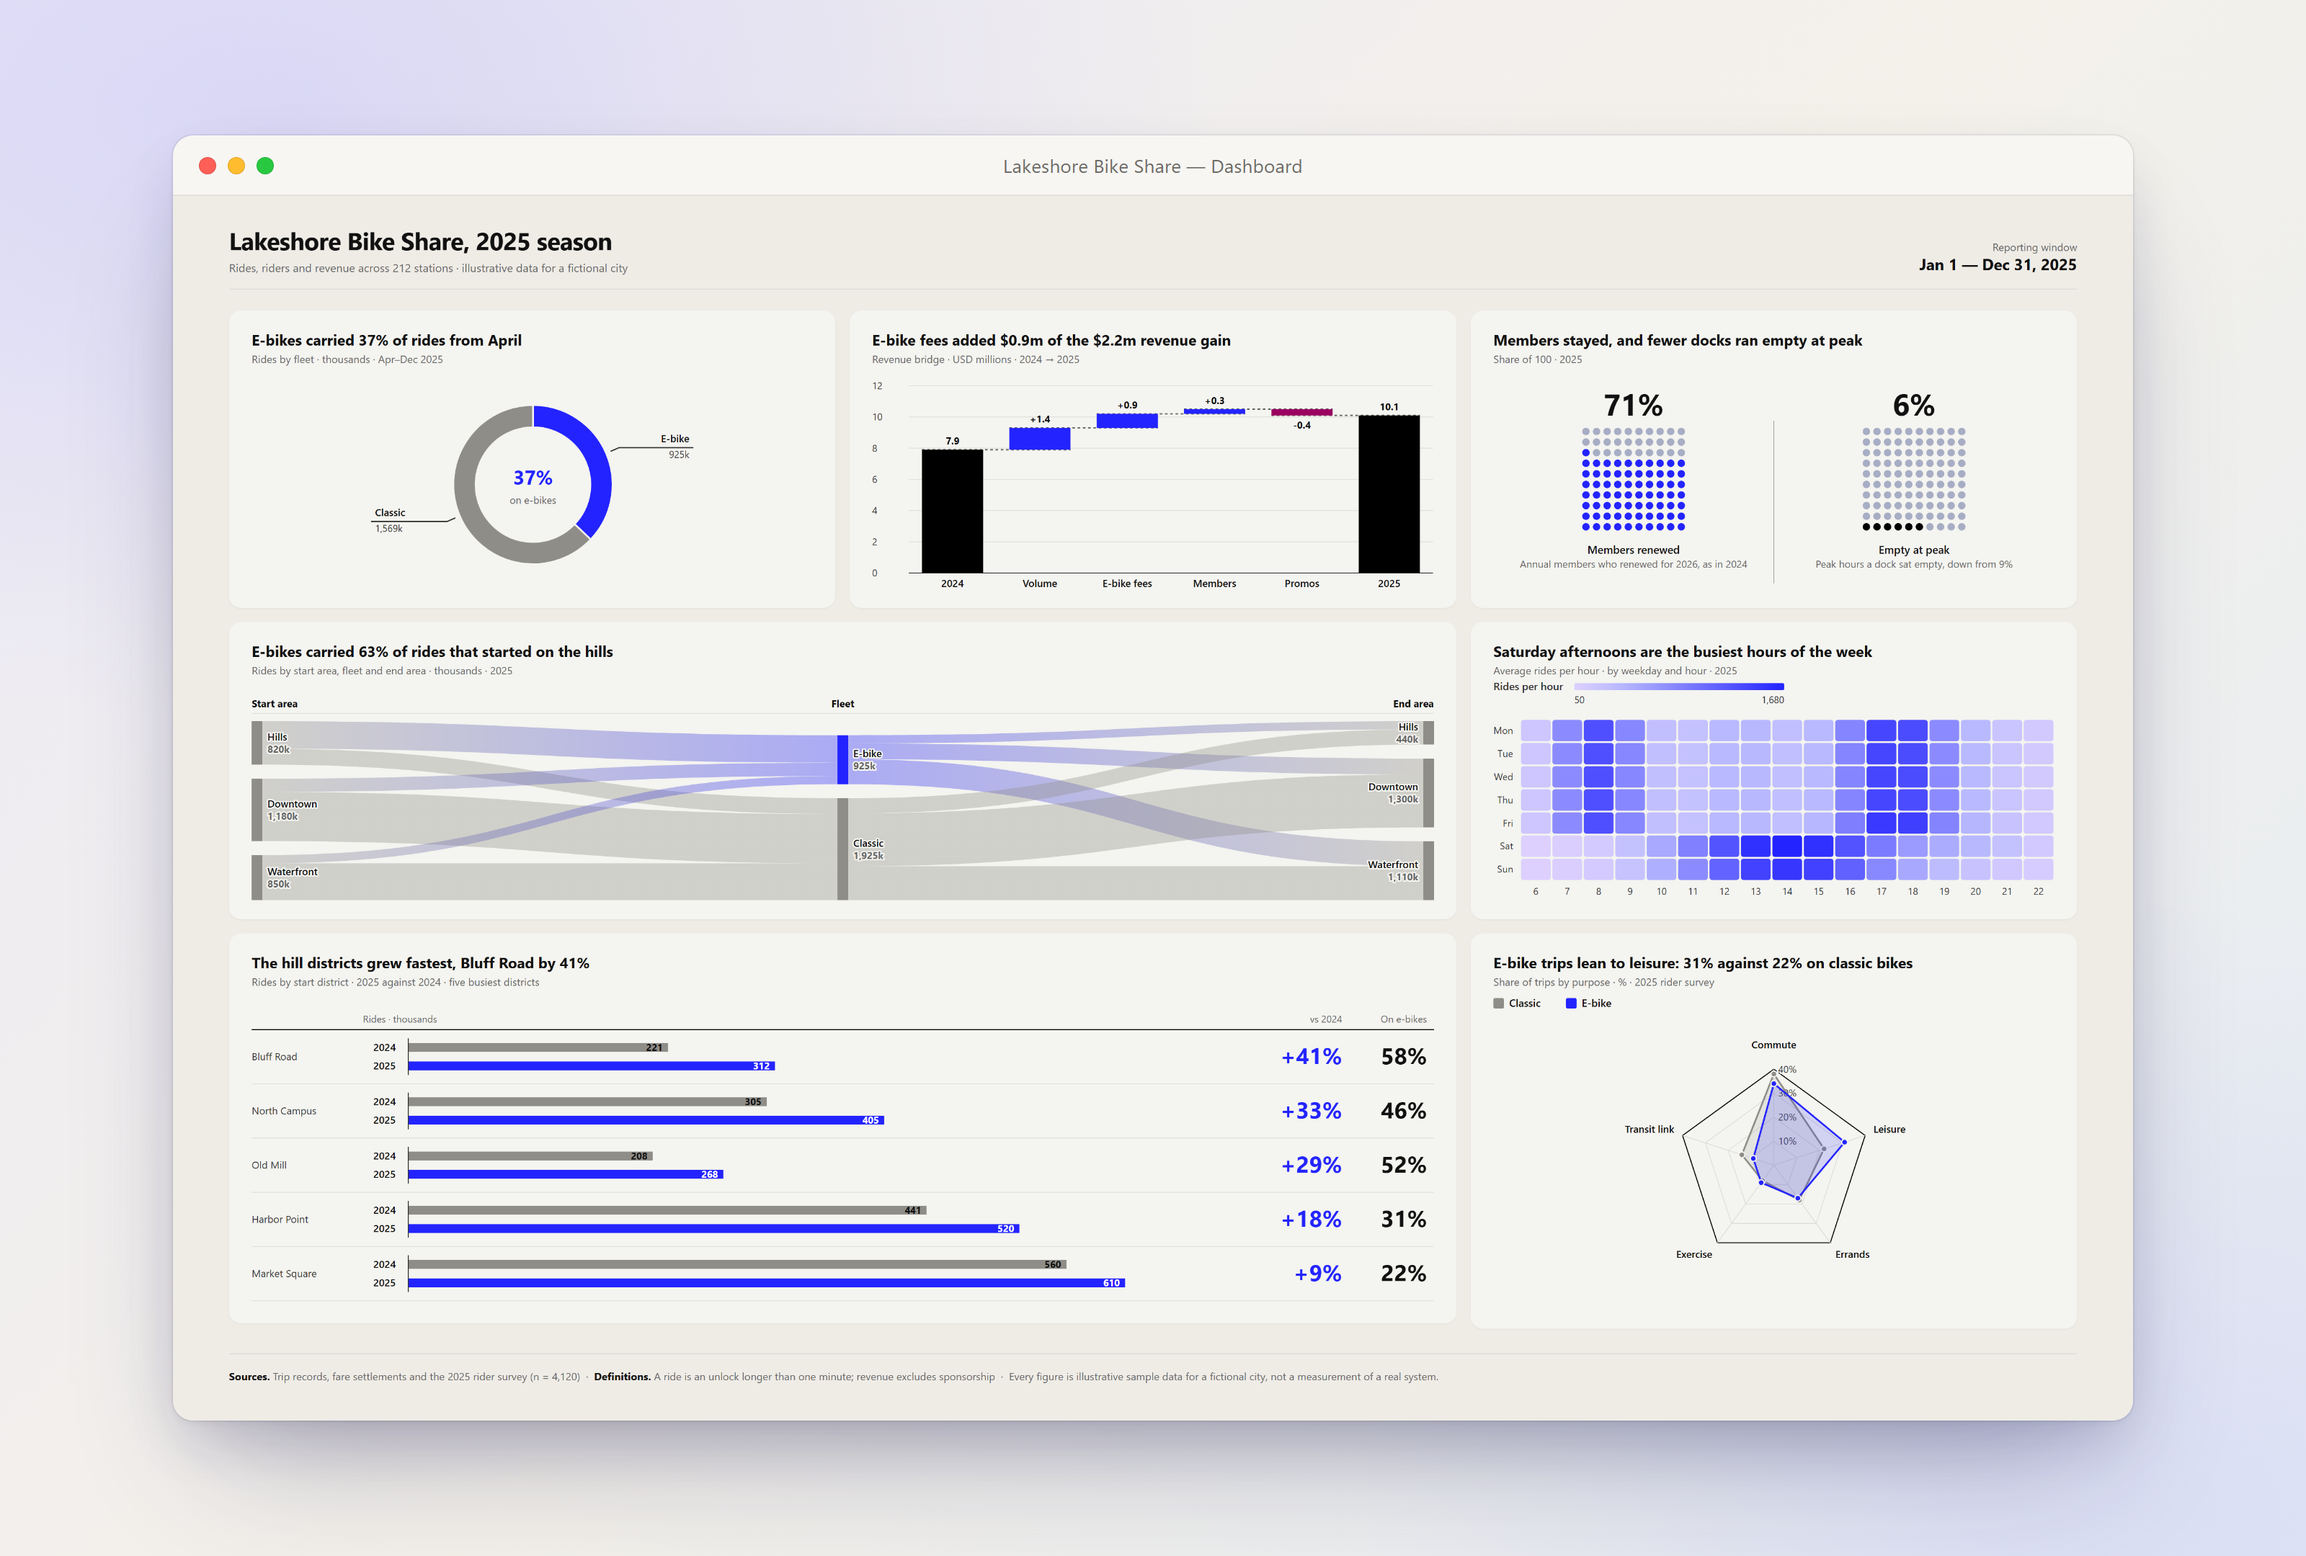
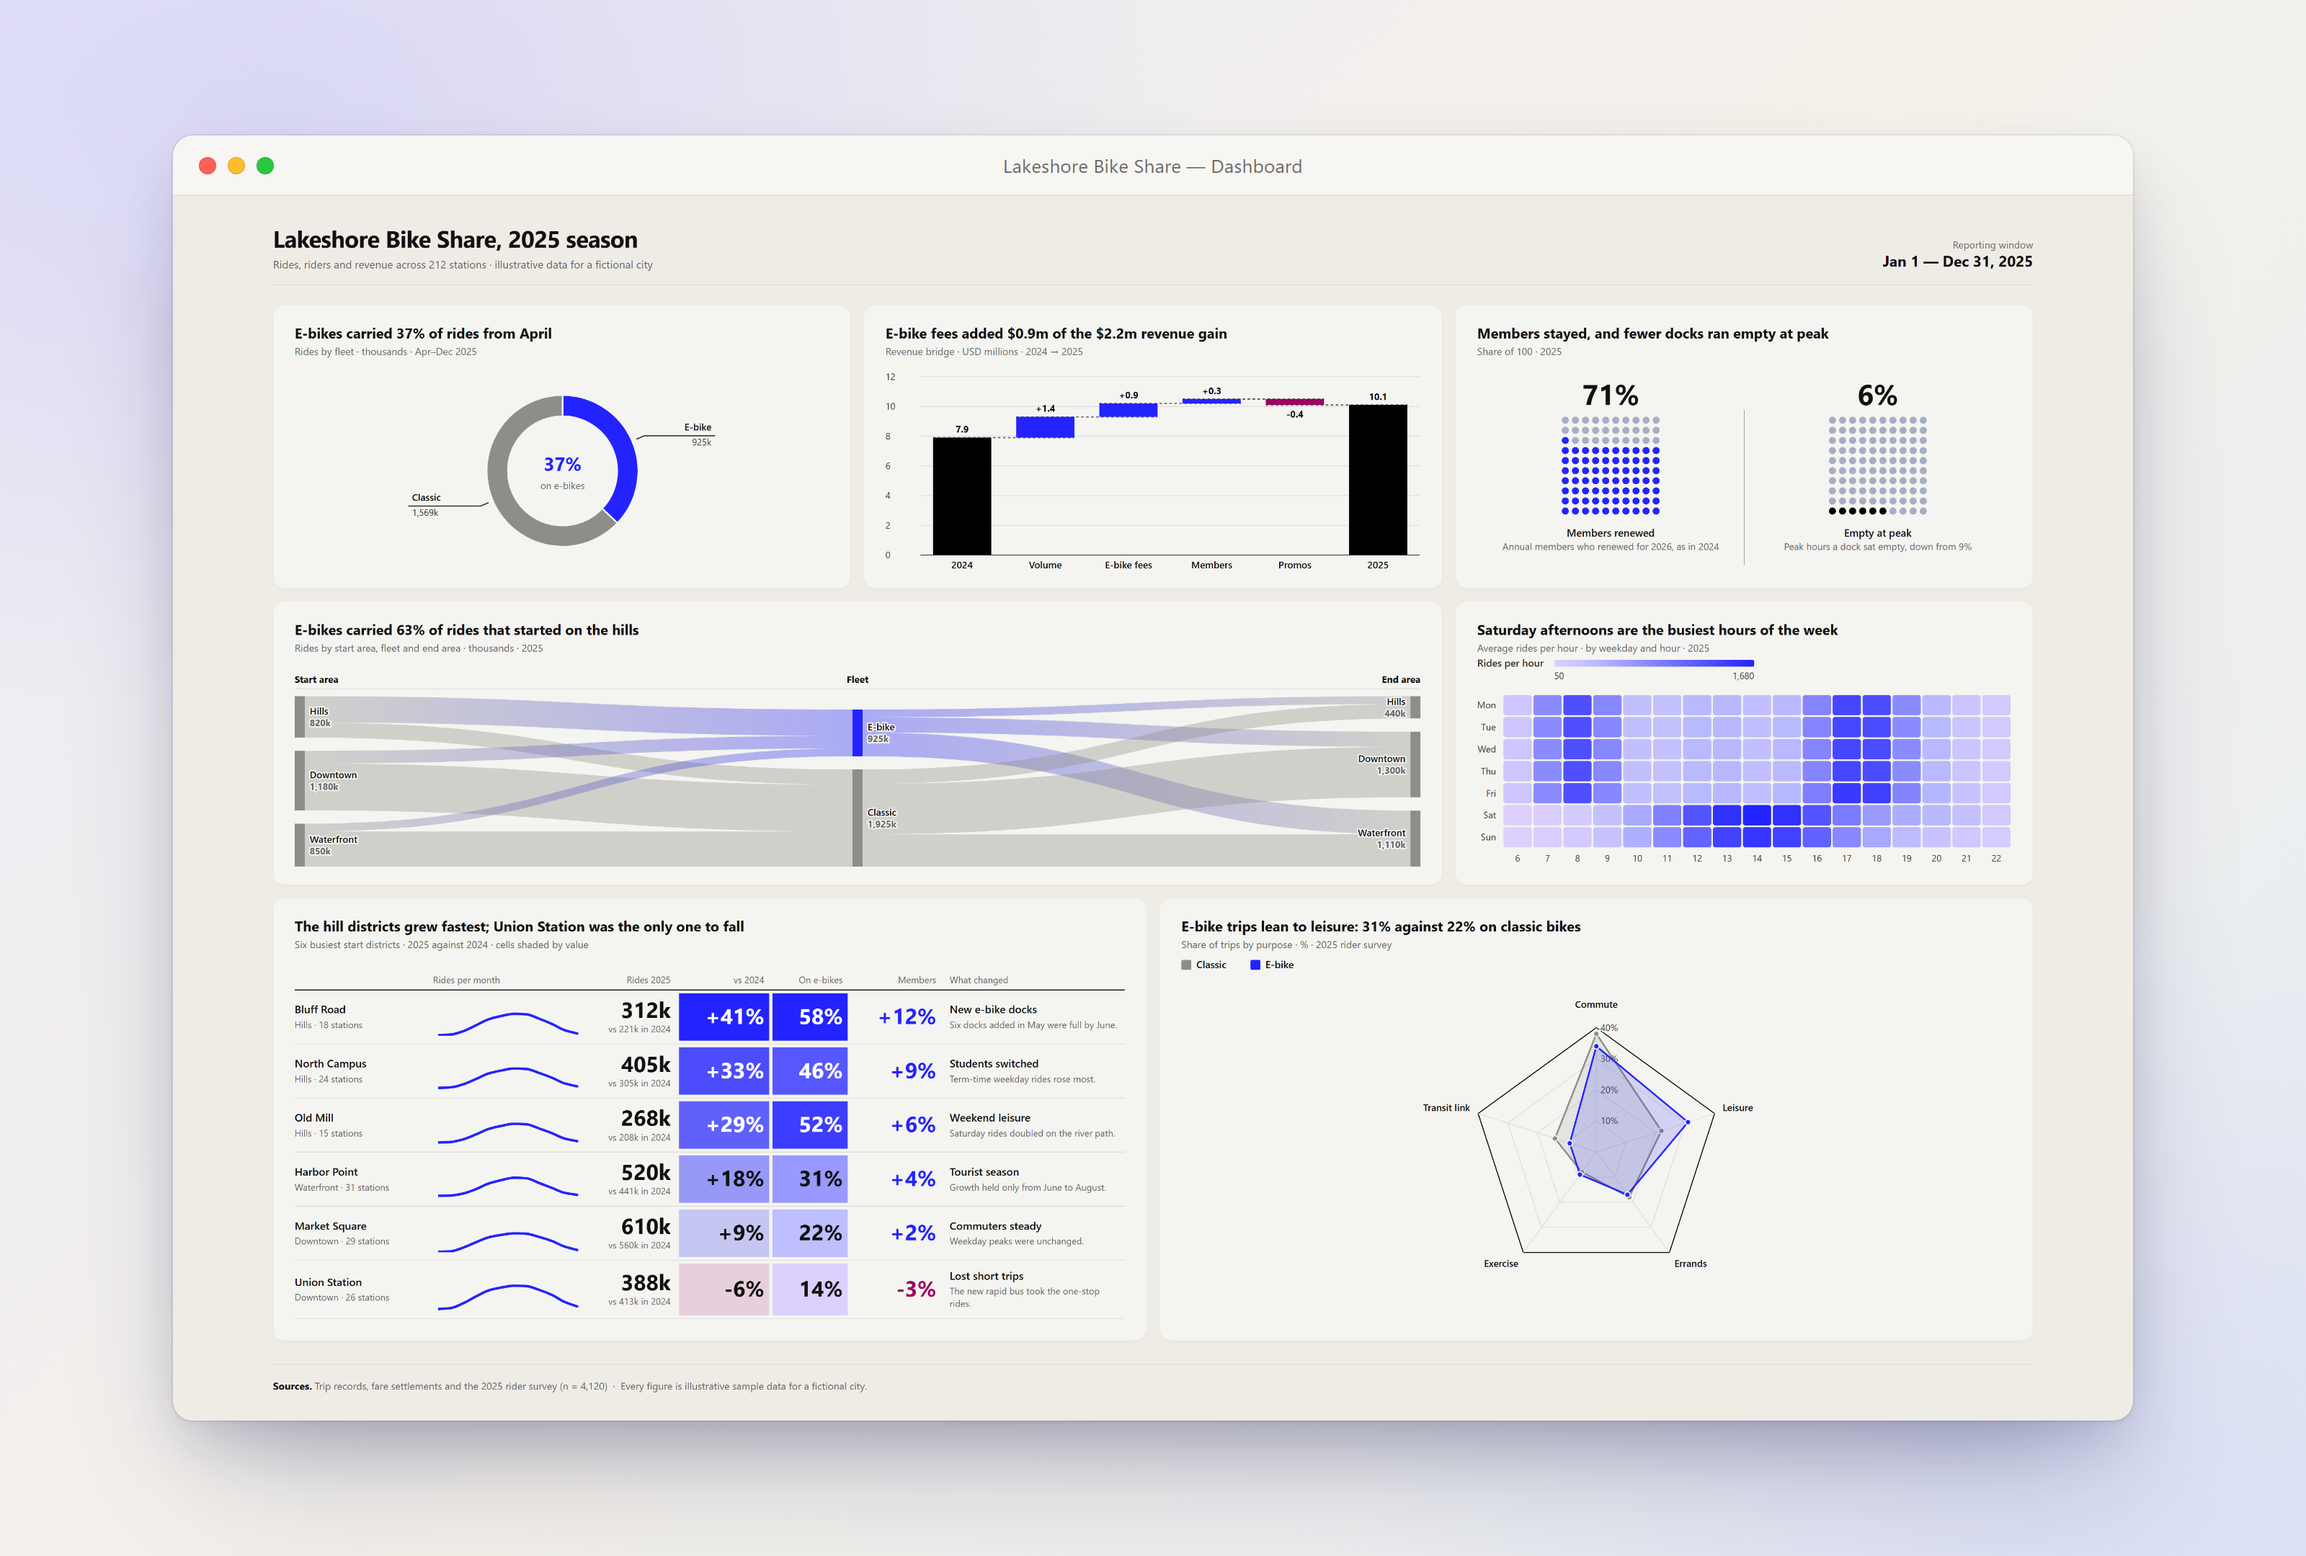
docs(readme): give the dashboard's report table even, featured columns
The district table was mostly one wide 2024/2025 bar column. It now
carries six evenly weighted columns: a short sparkline, rides with last
year as a note, growth and e-bike share cells shaded on diverging and
sequential scales, a members change coloured by sign, and an insight per
row, with Union Station's decline showing the negative side. The table
and the radar now split the bottom row w6/w6, and the hero's deck is
re-placed on the new gutter.

diff --git a/docs/readme/pages/dashboard.html b/docs/readme/pages/dashboard.html
@@ -107,14 +107,13 @@
     <div class="cell w4"><div class="chart" id="c-hours"></div></div>
   </div>
   <div class="bento flow">
-    <div class="cell w8"><div class="chart" id="c-districts"></div></div>
-    <div class="cell w4"><div class="chart" id="c-purpose" style="height:440px"></div></div>
+    <div class="cell w6"><div class="chart" id="c-districts"></div></div>
+    <div class="cell w6"><div class="chart" id="c-purpose" style="height:519px"></div></div>
   </div>
 
   <footer class="notes">
     <b>Sources.</b> Trip records, fare settlements and the 2025 rider survey (n = 4,120) &nbsp;·&nbsp;
-    <b>Definitions.</b> A ride is an unlock longer than one minute; revenue excludes sponsorship &nbsp;·&nbsp;
-    Every figure is illustrative sample data for a fictional city, not a measurement of a real system.
+    Every figure is illustrative sample data for a fictional city.
   </footer>
 </div>
 
@@ -219,18 +218,20 @@ Charts.waffle('c-service', {
 });
 
 Charts.reportTable('c-districts', {
-  title: 'The hill districts grew fastest, Bluff Road by 41%',
-  subtitle: 'Rides by start district · 2025 against 2024 · five busiest districts',
-  plotOptions: { reportTable: { rowHeight: 62 } },
+  title: 'The hill districts grew fastest; Union Station was the only one to fall',
+  subtitle: 'Six busiest start districts · 2025 against 2024 · cells shaded by value',
+  plotOptions: { reportTable: { rowHeight: 56 } },
   columns: [
-    { key: 'trend',  kind: 'chart', name: 'Rides · thousands',
-      chart: { type: 'bar', xAxis: { categories: ['2024', '2025'] },
-        plotOptions: { series: { dataLabels: { enabled: true } } } } },
-    { key: 'change', kind: 'kpi', name: 'vs 2024', suffix: '%', colorBySign: true },
-    { key: 'share',  kind: 'kpi', name: 'On e-bikes', suffix: '%' }
+    { key: 'trend',  kind: 'chart', name: 'Rides per month', width: 200, sharedScale: false,
+      chart: { type: 'line', xAxis: { categories: ['Jan','Feb','Mar','Apr','May','Jun','Jul','Aug','Sep','Oct','Nov','Dec'] },
+        plotOptions: { series: { dataLabels: { enabled: false } } } } },
+    { key: 'rides',  kind: 'kpi', name: 'Rides 2025', suffix: 'k' },
+    { key: 'change', kind: 'kpi', name: 'vs 2024', suffix: '%', showSign: true, colorByScale: true, scale: 'change' },
+    { key: 'share',  kind: 'kpi', name: 'On e-bikes', suffix: '%', colorByScale: true, scale: 'share' },
+    { key: 'members', kind: 'kpi', name: 'Members', suffix: '%', colorBySign: true },
+    { key: 'why',    kind: 'insight', name: 'What changed' }
   ],
-  rows: [{"name": "Bluff Road", "trend": [221, 312], "rides": 312, "change": {"value": 41}, "share": 58}, {"name": "North Campus", "trend": [305, 405], "rides": 405, "change": {"value": 33}, "share": 46}, {"name": "Old Mill", "trend": [208, 268], "rides": 268, "change": {"value": 29}, "share": 52}, {"name": "Harbor Point", "trend": [441, 520], "rides": 520, "change": {"value": 18}, "share": 31}, {"name": "Market Square", "trend": [560, 610], "rides": 610, "change": {"value": 9}, "share": 22}].map(r => Object.assign({}, r, { trend: { series: [{ name: 'Rides', data: [
-    { y: r.trend[0], color: T.muted }, { y: r.trend[1], color: T.colors[1] } ] }] } }))
+  rows: [{"name": {"head": "Bluff Road", "body": "Hills · 18 stations"}, "trend": [10.8, 11.6, 16.5, 25.0, 33.8, 38.5, 41.7, 40.9, 34.6, 27.1, 18.1, 13.2], "rides": {"value": 312, "note": "vs 221k in 2024"}, "change": 41, "share": 58, "members": 12, "why": {"head": "New e-bike docks", "body": "Six docks added in May were full by June."}}, {"name": {"head": "North Campus", "body": "Hills · 24 stations"}, "trend": [14.1, 15.1, 21.5, 32.4, 43.9, 50.0, 54.1, 53.1, 44.9, 35.2, 23.4, 17.2], "rides": {"value": 405, "note": "vs 305k in 2024"}, "change": 33, "share": 46, "members": 9, "why": {"head": "Students switched", "body": "Term-time weekday rides rose most."}}, {"name": {"head": "Old Mill", "body": "Hills · 15 stations"}, "trend": [7.6, 8.3, 12.7, 20.8, 29.9, 35.0, 38.5, 37.6, 30.7, 23.0, 14.1, 9.7], "rides": {"value": 268, "note": "vs 208k in 2024"}, "change": 29, "share": 52, "members": 6, "why": {"head": "Weekend leisure", "body": "Saturday rides doubled on the river path."}}, {"name": {"head": "Harbor Point", "body": "Waterfront · 31 stations"}, "trend": [9.8, 10.9, 19.2, 37.2, 60.5, 74.6, 84.6, 82.1, 62.7, 42.6, 22.2, 13.5], "rides": {"value": 520, "note": "vs 441k in 2024"}, "change": 18, "share": 31, "members": 4, "why": {"head": "Tourist season", "body": "Growth held only from June to August."}}, {"name": {"head": "Market Square", "body": "Downtown · 29 stations"}, "trend": [30.8, 32.1, 39.7, 50.8, 61.0, 66.0, 69.2, 68.4, 61.8, 53.5, 41.9, 34.8], "rides": {"value": 610, "note": "vs 560k in 2024"}, "change": 9, "share": 22, "members": 2, "why": {"head": "Commuters steady", "body": "Weekday peaks were unchanged."}}, {"name": {"head": "Union Station", "body": "Downtown · 26 stations"}, "trend": [21.4, 22.2, 26.5, 32.5, 37.8, 40.4, 42.0, 41.6, 38.3, 33.9, 27.7, 23.7], "rides": {"value": 388, "note": "vs 413k in 2024"}, "change": -6, "share": 14, "members": -3, "why": {"head": "Lost short trips", "body": "The new rapid bus took the one-stop rides."}}].map(r => Object.assign({}, r, { trend: { series: [{ name: 'Rides', data: r.trend, color: T.colors[1] }] } }))
 });
 
 (function () {

diff --git a/docs/readme/hero.html b/docs/readme/hero.html
@@ -32,15 +32,15 @@
     color:#6f6d68; pointer-events:none; }
   .win img { display:block; width:100%; height:auto; }
 
-  /* The dashboard leads and is shown whole (its capture is 2240x1400 css,
-     drawn here at 0.482). The front windows touch it only where no text is:
+  /* The dashboard leads and is shown whole (its capture is 2352x1470 css,
+     drawn here at 0.459). The front windows touch it only where no text is:
      the deck's top-left corner sits in the grid gutters around the radar
-     cell (css x 1467–1483, y 827–843), so it covers that panel whole and the
+     cell (css x 1168–1184, y 827–843), so it covers that panel whole and the
      empty end of the footer; the email overlaps only the dashboard's left
-     padding (css x < 64). Re-measure the cells if the dashboard page changes. */
-  .dash  { left:330px;  top:120px;  width:1080px; z-index:1; }
-  .deck  { left:1041px; top:556px; width:520px;  z-index:3; }
-  .email { left:30px;   top:420px; width:328px;  z-index:2; }
+     padding (css x < 120). Re-measure the cells if the dashboard page changes. */
+  .dash  { left:330px;  top:120px; width:1080px; z-index:1; }
+  .deck  { left:870px;  top:537px; width:620px;  z-index:3; }
+  .email { left:30px;   top:420px; width:340px;  z-index:2; }
 
   .crop { position:relative; overflow:hidden; }
   .crop img { position:absolute; max-width:none; }

diff --git a/README.md b/README.md
@@ -20,7 +20,7 @@ that can read a file.
 
 📖 **[Full documentation and FAQ →](https://raghuramsirigiri.github.io/raghuram-skills/)**
 
-![Three pages built by the chart-dashboard skill from one fictional bike-share season, shown as layered browser windows: a dashboard of a donut, a revenue waterfall, waffle grids, a Sankey of trips by area and fleet, an hour-by-weekday heatmap and a district report table; on the left, an email snapshot with a headline, three figures and a line chart; in front on the right, a 16:9 slide with a revenue bridge beside its claim](docs/readme/images/hero.png)
+![Three pages built by the chart-dashboard skill from one fictional bike-share season, shown as layered browser windows: a dashboard of a donut, a revenue waterfall, waffle grids, a Sankey of trips by area and fleet, an hour-by-weekday heatmap and a district report table with shaded cells; on the left, an email snapshot with a headline, three figures and a line chart; in front on the right, a 16:9 slide with a revenue bridge beside its claim](docs/readme/images/hero.png)
 
 <sub>A dashboard, an email snapshot and a slide deck, built with the skill's templates from the same data. All six formats are shown one at a time under [Output formats](#output-formats).</sub>
 
@@ -249,7 +249,7 @@ each format, so you can compare how each format handles the same data. Their sou
 
 ### Dashboard
 
-![Dashboard built by the chart-dashboard skill: a bike-share season as a bento grid of seven panels, each titled with its finding: a donut of rides by fleet, a revenue bridge waterfall, waffle grids of member renewals and empty docks, a Sankey of rides from start area through fleet to end area, an hour-by-weekday heatmap, a report table of districts with 2024 and 2025 bars per row, and a radar of trip purpose by fleet](docs/readme/images/dashboard.png)
+![Dashboard built by the chart-dashboard skill: a bike-share season as a bento grid of seven panels, each titled with its finding: a donut of rides by fleet, a revenue bridge waterfall, waffle grids of member renewals and empty docks, a Sankey of rides from start area through fleet to end area, an hour-by-weekday heatmap, a report table of six districts with a sparkline, rides, growth and e-bike share cells shaded by value, a members change coloured by sign and a one-line insight per row, and a radar of trip purpose by fleet](docs/readme/images/dashboard.png)
 
 A bento grid with one panel per finding and no prose. This is the default when you
 hand over metrics with no argument attached. The grid comes from the shape of the
